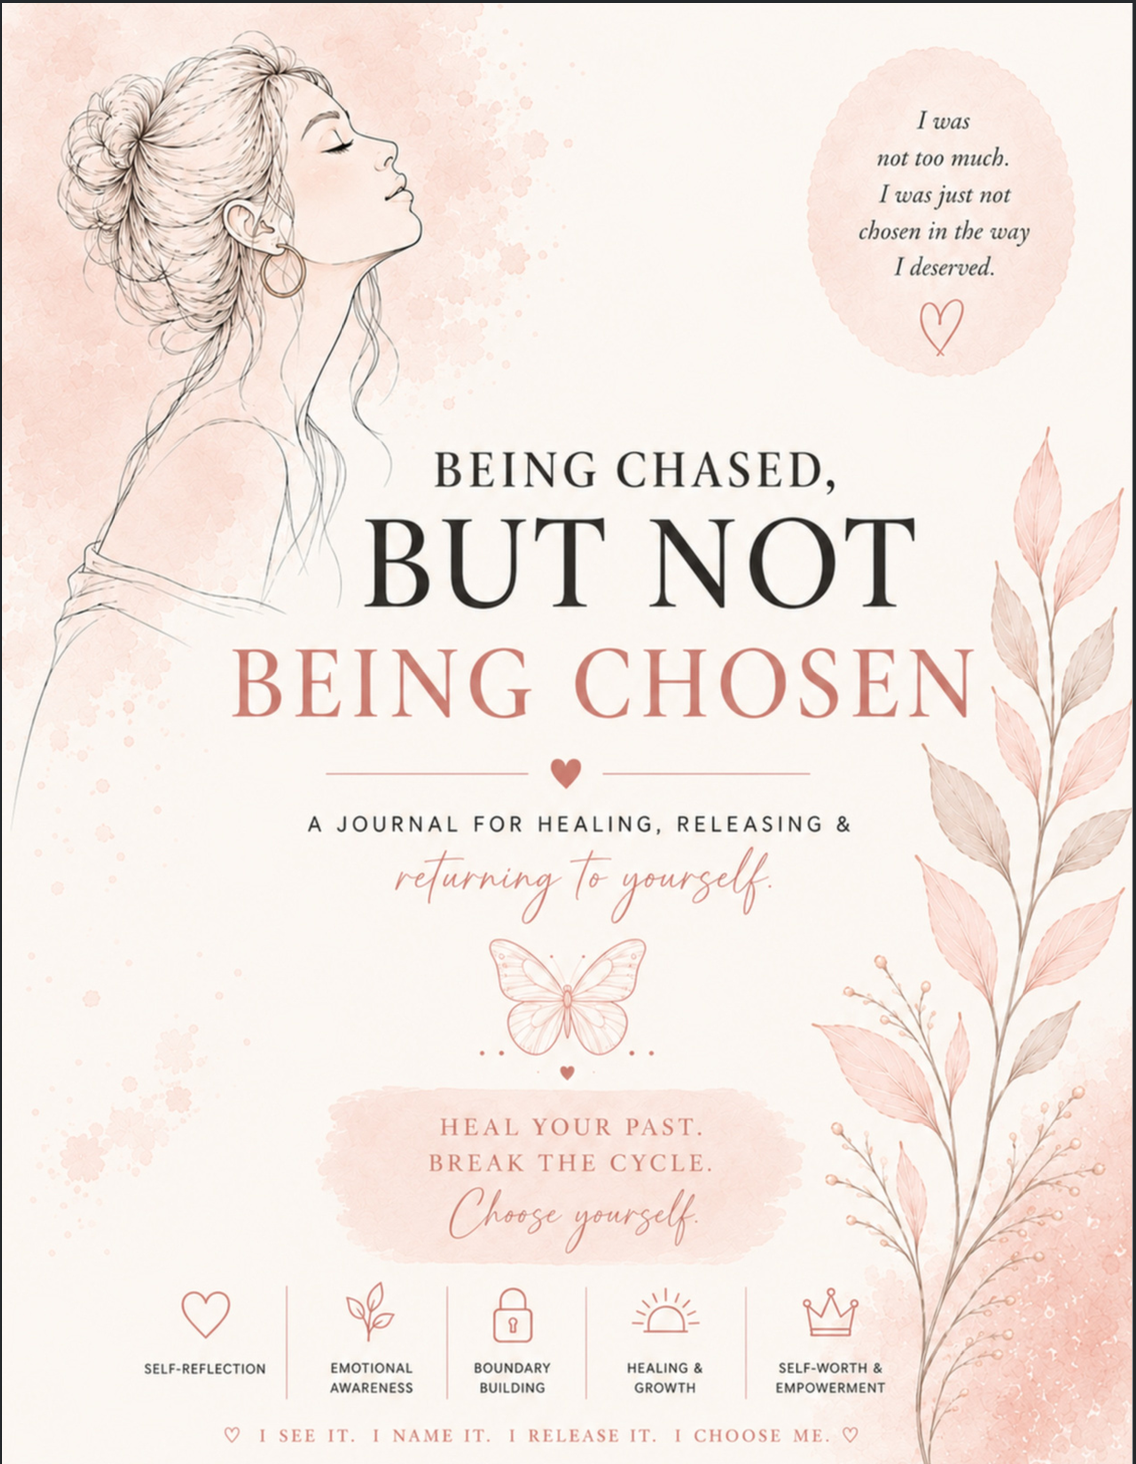
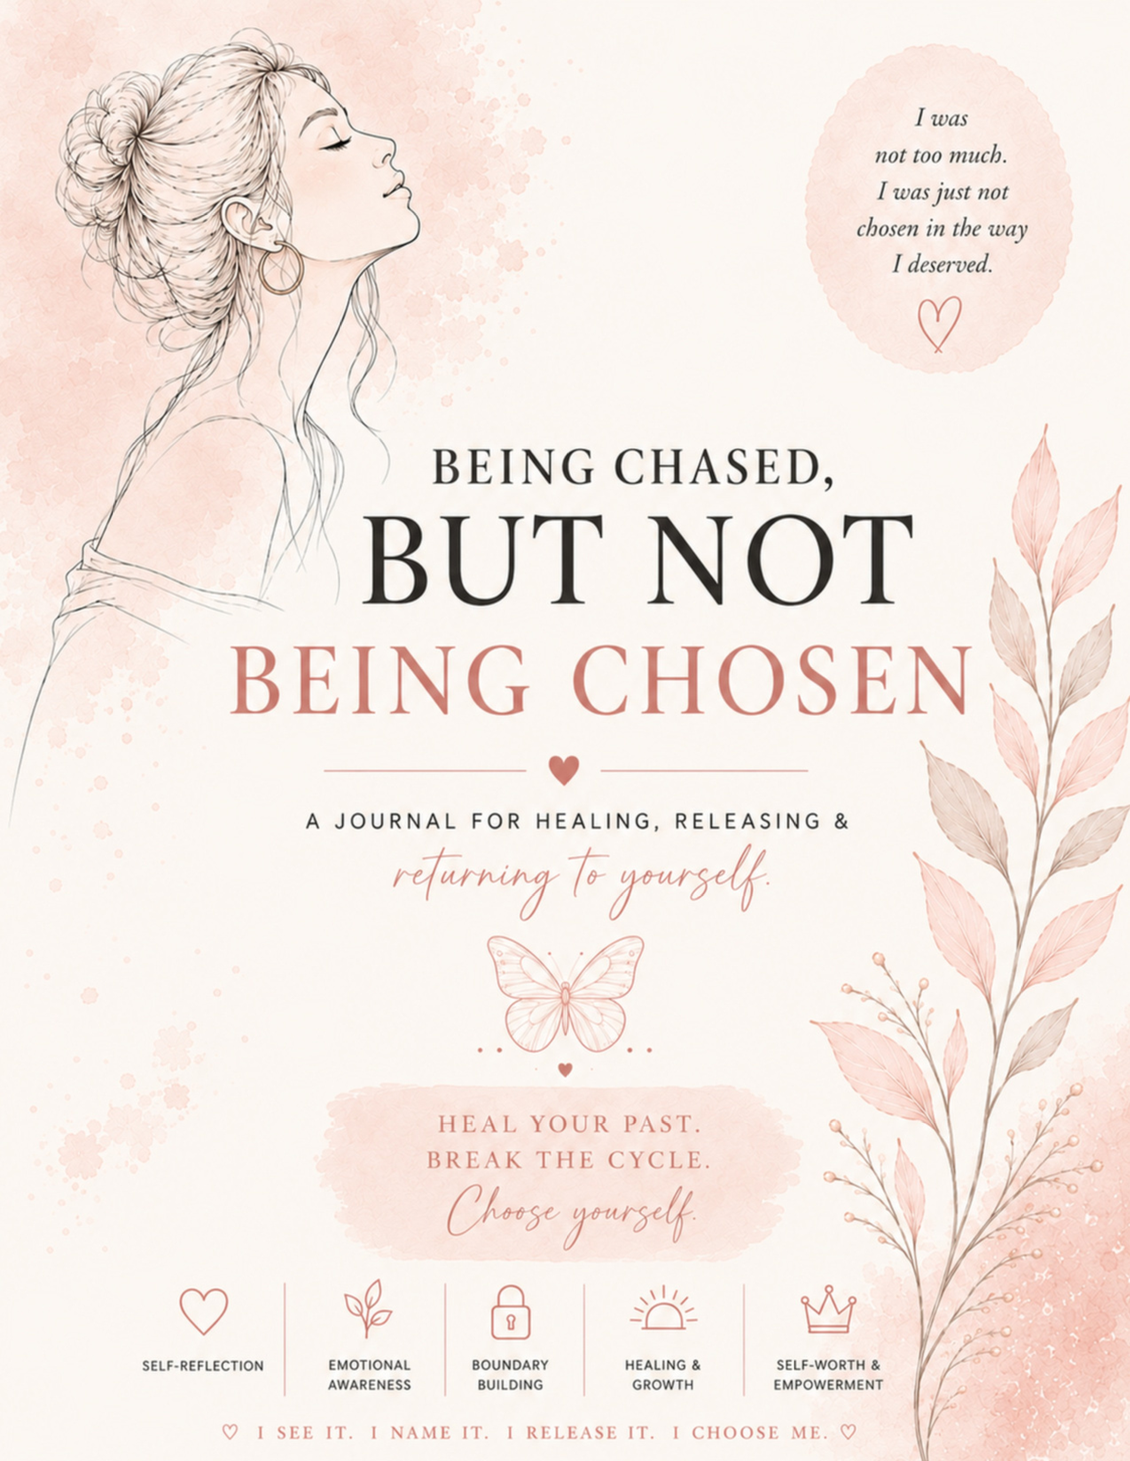
Fix mobile image distortion and crop black border artifacts from previews.
Crop edge bars from journal/cover PNGs, preserve native aspect ratios with object-fit contain, and refactor preview cards to use aspect-ratio containers instead of fixed heights.

diff --git a/lib/journal-pages.ts b/lib/journal-pages.ts
@@ -7,9 +7,6 @@ export type JournalPage = {
   height: number;
 };
 
-export const JOURNAL_PAGE_WIDTH = 1130;
-export const JOURNAL_PAGE_HEIGHT = 1466;
-
 export const JOURNAL_PAGES: JournalPage[] = [
   {
     src: "/images/reality-check.png",
@@ -17,8 +14,8 @@ export const JOURNAL_PAGES: JournalPage[] = [
     description:
       "Getting honest with myself is the first step to freedom. Explore why you found yourself here, your biggest triggers, and what you're finally ready to see.",
     alt: "The Reality Check",
-    width: JOURNAL_PAGE_WIDTH,
-    height: JOURNAL_PAGE_HEIGHT,
+    width: 1130,
+    height: 1463,
   },
   {
     src: "/images/checklist.png",
@@ -26,8 +23,8 @@ export const JOURNAL_PAGES: JournalPage[] = [
     description:
       "Things you shouldn't have ignored. A powerful self-reflection tool to identify red flags you may have excused or explained away.",
     alt: "The Checklist I Wish I Had Sooner",
-    width: JOURNAL_PAGE_WIDTH,
-    height: JOURNAL_PAGE_HEIGHT,
+    width: 1130,
+    height: 1463,
   },
   {
     src: "/images/keeping-receipts.png",
@@ -35,8 +32,8 @@ export const JOURNAL_PAGES: JournalPage[] = [
     description:
       "This is your space to document the patterns — not to be bitter, but to be clear. Accountability, what was withheld, and how you choose yourself from here.",
     alt: "Keeping Receipts",
-    width: JOURNAL_PAGE_WIDTH,
-    height: JOURNAL_PAGE_HEIGHT,
+    width: 1130,
+    height: 1462,
   },
   {
     src: "/images/how-i-can-choose-me.png",
@@ -44,8 +41,8 @@ export const JOURNAL_PAGES: JournalPage[] = [
     description:
       "This is your plan. Your standards. Your future. Behaviors to recognize, mindset shifts to make, and what you will no longer tolerate — specifically.",
     alt: "How I Can Choose Me",
-    width: JOURNAL_PAGE_WIDTH,
-    height: JOURNAL_PAGE_HEIGHT,
+    width: 1128,
+    height: 1458,
   },
   {
     src: "/images/my-personal-experiences.png",
@@ -53,8 +50,8 @@ export const JOURNAL_PAGES: JournalPage[] = [
     description:
       "Your space to write freely — what happened, how it made you feel, and what you need to remember. Repeat across multiple entries.",
     alt: "My Personal Experiences",
-    width: JOURNAL_PAGE_WIDTH,
-    height: JOURNAL_PAGE_HEIGHT,
+    width: 1126,
+    height: 1456,
   },
   {
     src: "/images/things-i-need-to-remember.png",
@@ -62,7 +59,7 @@ export const JOURNAL_PAGES: JournalPage[] = [
     description:
       "Open-lined notes pages to capture thoughts, breakthroughs, affirmations, or anything your healing heart needs to hold on to.",
     alt: "Things I Need to Remember",
-    width: JOURNAL_PAGE_WIDTH,
-    height: JOURNAL_PAGE_HEIGHT,
+    width: 1126,
+    height: 1458,
   },
 ];

diff --git a/app/globals.css b/app/globals.css
@@ -226,11 +226,8 @@
     position: relative; z-index: 2;
   }
   .book-mockup {
-    width: 371px;
-    max-width: 100%;
+    width: min(371px, 100%);
     height: auto;
-    aspect-ratio: 2 / 3;
-    object-fit: cover;
     border-radius: 8px;
     box-shadow: 0 24px 80px rgba(139,58,58,0.22), 0 8px 24px rgba(139,58,58,0.12);
     transform: rotate(-3deg);
@@ -461,12 +458,15 @@
     transform: translateY(-6px);
     box-shadow: 0 16px 40px rgba(139,58,58,0.12);
   }
-  .page-card img {
+  .page-card-preview {
+    position: relative;
     width: 100%;
-    height: 220px;
-    object-fit: cover;
-    object-position: top;
-    display: block;
+    overflow: hidden;
+    background: var(--parchment);
+  }
+  .page-card-image {
+    object-fit: contain;
+    object-position: top center;
   }
   .page-card-body { padding: 18px 18px 22px; }
   .page-card-title {
@@ -586,14 +586,19 @@
   }
   .page-viewer-image-wrap {
     position: relative;
-    aspect-ratio: 1130 / 1466;
-    height: min(
+    width: min(
+      calc(100vw - var(--page-viewer-horizontal-inset)),
+      calc(
+        (100dvh - var(--page-viewer-toolbar-height) - var(--page-viewer-vertical-inset) - max(24px, env(safe-area-inset-top, 0px) + env(safe-area-inset-bottom, 0px)))
+        / var(--page-height-ratio, 1.29)
+      ),
+      620px
+    );
+    height: auto;
+    max-height: min(
       calc(100dvh - var(--page-viewer-toolbar-height) - var(--page-viewer-vertical-inset) - max(24px, env(safe-area-inset-top, 0px) + env(safe-area-inset-bottom, 0px))),
-      calc((100vw - var(--page-viewer-horizontal-inset)) * 1466 / 1130),
       960px
     );
-    width: auto;
-    max-width: calc(100vw - var(--page-viewer-horizontal-inset));
     line-height: 0;
     border-radius: 8px;
     overflow: hidden;
@@ -635,6 +640,8 @@
     border-radius: 12px;
     box-shadow: 0 20px 60px rgba(139,58,58,0.18);
     width: 100%;
+    height: auto;
+    object-fit: contain;
   }
   .checklist-items { display: flex; flex-direction: column; gap: 18px; }
   .check-item {
@@ -779,10 +786,10 @@
     .hero { grid-template-columns: 1fr; min-height: auto; }
     .hero-text { padding: 50px 24px 30px; }
     .hero-visual { padding: 20px 24px 50px; }
-    .book-mockup { width: 292px; }
+    .book-mockup { width: min(292px, 100%); }
     .floating-badge { right: 20px; }
     .why-grid, .two-col, .checklist-grid, .pages-grid { grid-template-columns: 1fr; }
-    .pages-grid { grid-template-columns: 1fr 1fr; }
+    .pages-grid { grid-template-columns: 1fr; }
     .testimonials { grid-template-columns: 1fr; }
     .section-inner { padding: 60px 24px; }
     .purchase-card { padding: 36px 24px; }

diff --git a/components/WhatsInside.tsx b/components/WhatsInside.tsx
@@ -66,12 +66,20 @@ export default function WhatsInside() {
               onClick={() => setActiveIndex(index)}
               aria-label={`View full page: ${page.title}`}
             >
-              <Image
-                src={page.src}
-                alt={page.alt}
-                width={page.width}
-                height={page.height}
-              />
+              <div
+                className="page-card-preview"
+                style={{
+                  aspectRatio: `${page.width} / ${page.height}`,
+                }}
+              >
+                <Image
+                  src={page.src}
+                  alt={page.alt}
+                  fill
+                  className="page-card-image"
+                  sizes="(max-width: 768px) 45vw, 320px"
+                />
+              </div>
               <div className="page-card-body">
                 <div className="page-card-title">{page.title}</div>
                 <p className="page-card-desc">{page.description}</p>
@@ -124,7 +132,14 @@ export default function WhatsInside() {
               ‹
             </button>
 
-            <div className="page-viewer-image-wrap">
+            <div
+              className="page-viewer-image-wrap"
+              style={{
+                aspectRatio: `${activePage.width} / ${activePage.height}`,
+                ["--page-height-ratio" as string]:
+                  activePage.height / activePage.width,
+              }}
+            >
               <Image
                 src={activePage.src}
                 alt={activePage.alt}
@@ -132,6 +147,7 @@ export default function WhatsInside() {
                 className="page-viewer-image"
                 sizes="(max-width: 768px) calc(100vw - 96px), 620px"
                 priority
+                style={{ objectFit: "contain" }}
               />
             </div>
 

diff --git a/components/Hero.tsx b/components/Hero.tsx
@@ -49,11 +49,12 @@ export default function Hero() {
         <Image
           src={BOOK_COVER_SRC}
           alt="Being Chased But Not Chosen Journal Cover"
-          width={1136}
-          height={1464}
+          width={1130}
+          height={1461}
           className="book-mockup"
           priority
           sizes="(max-width: 768px) 292px, 371px"
+          style={{ height: "auto" }}
         />
         <div className="floating-badge">
           <span className="badge-price">$19.99</span>

diff --git a/app/page.tsx b/app/page.tsx
@@ -274,7 +274,9 @@ export default function Home() {
                 src="/images/checklist.png"
                 alt="The Checklist"
                 width={1130}
-                height={1466}
+                height={1463}
+                sizes="(max-width: 768px) 100vw, 540px"
+                style={{ height: "auto" }}
               />
             </div>
             <div>
